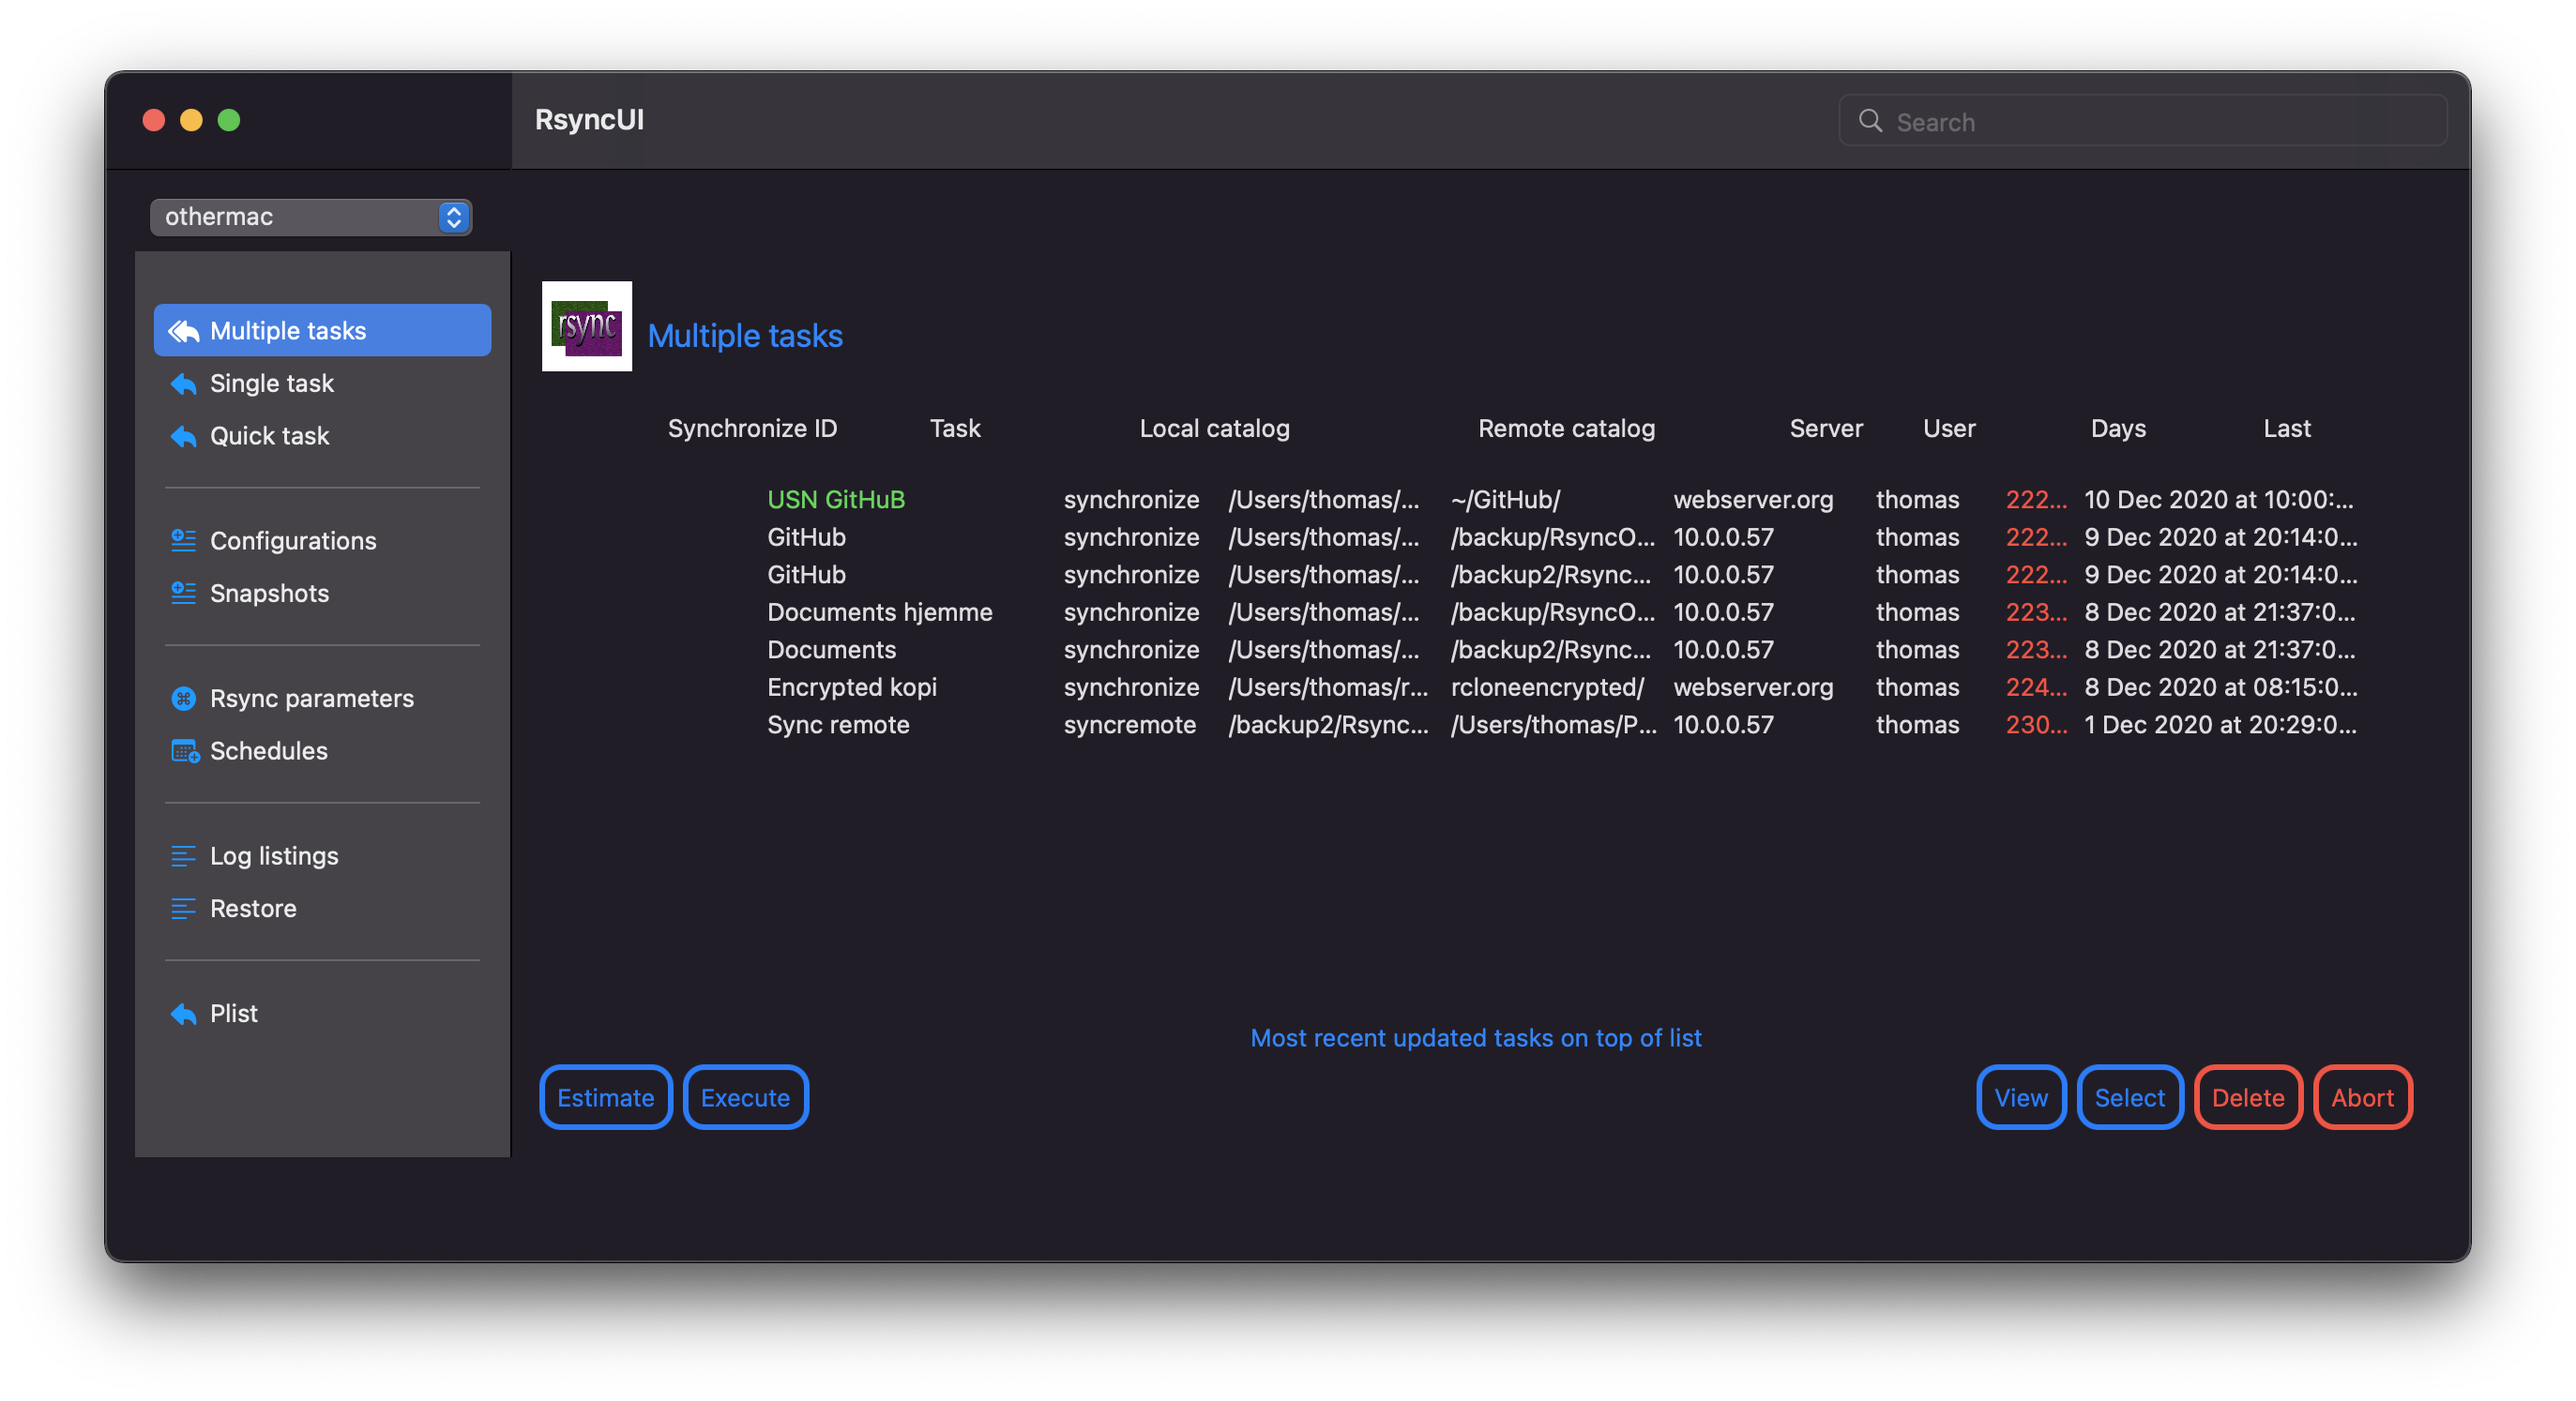
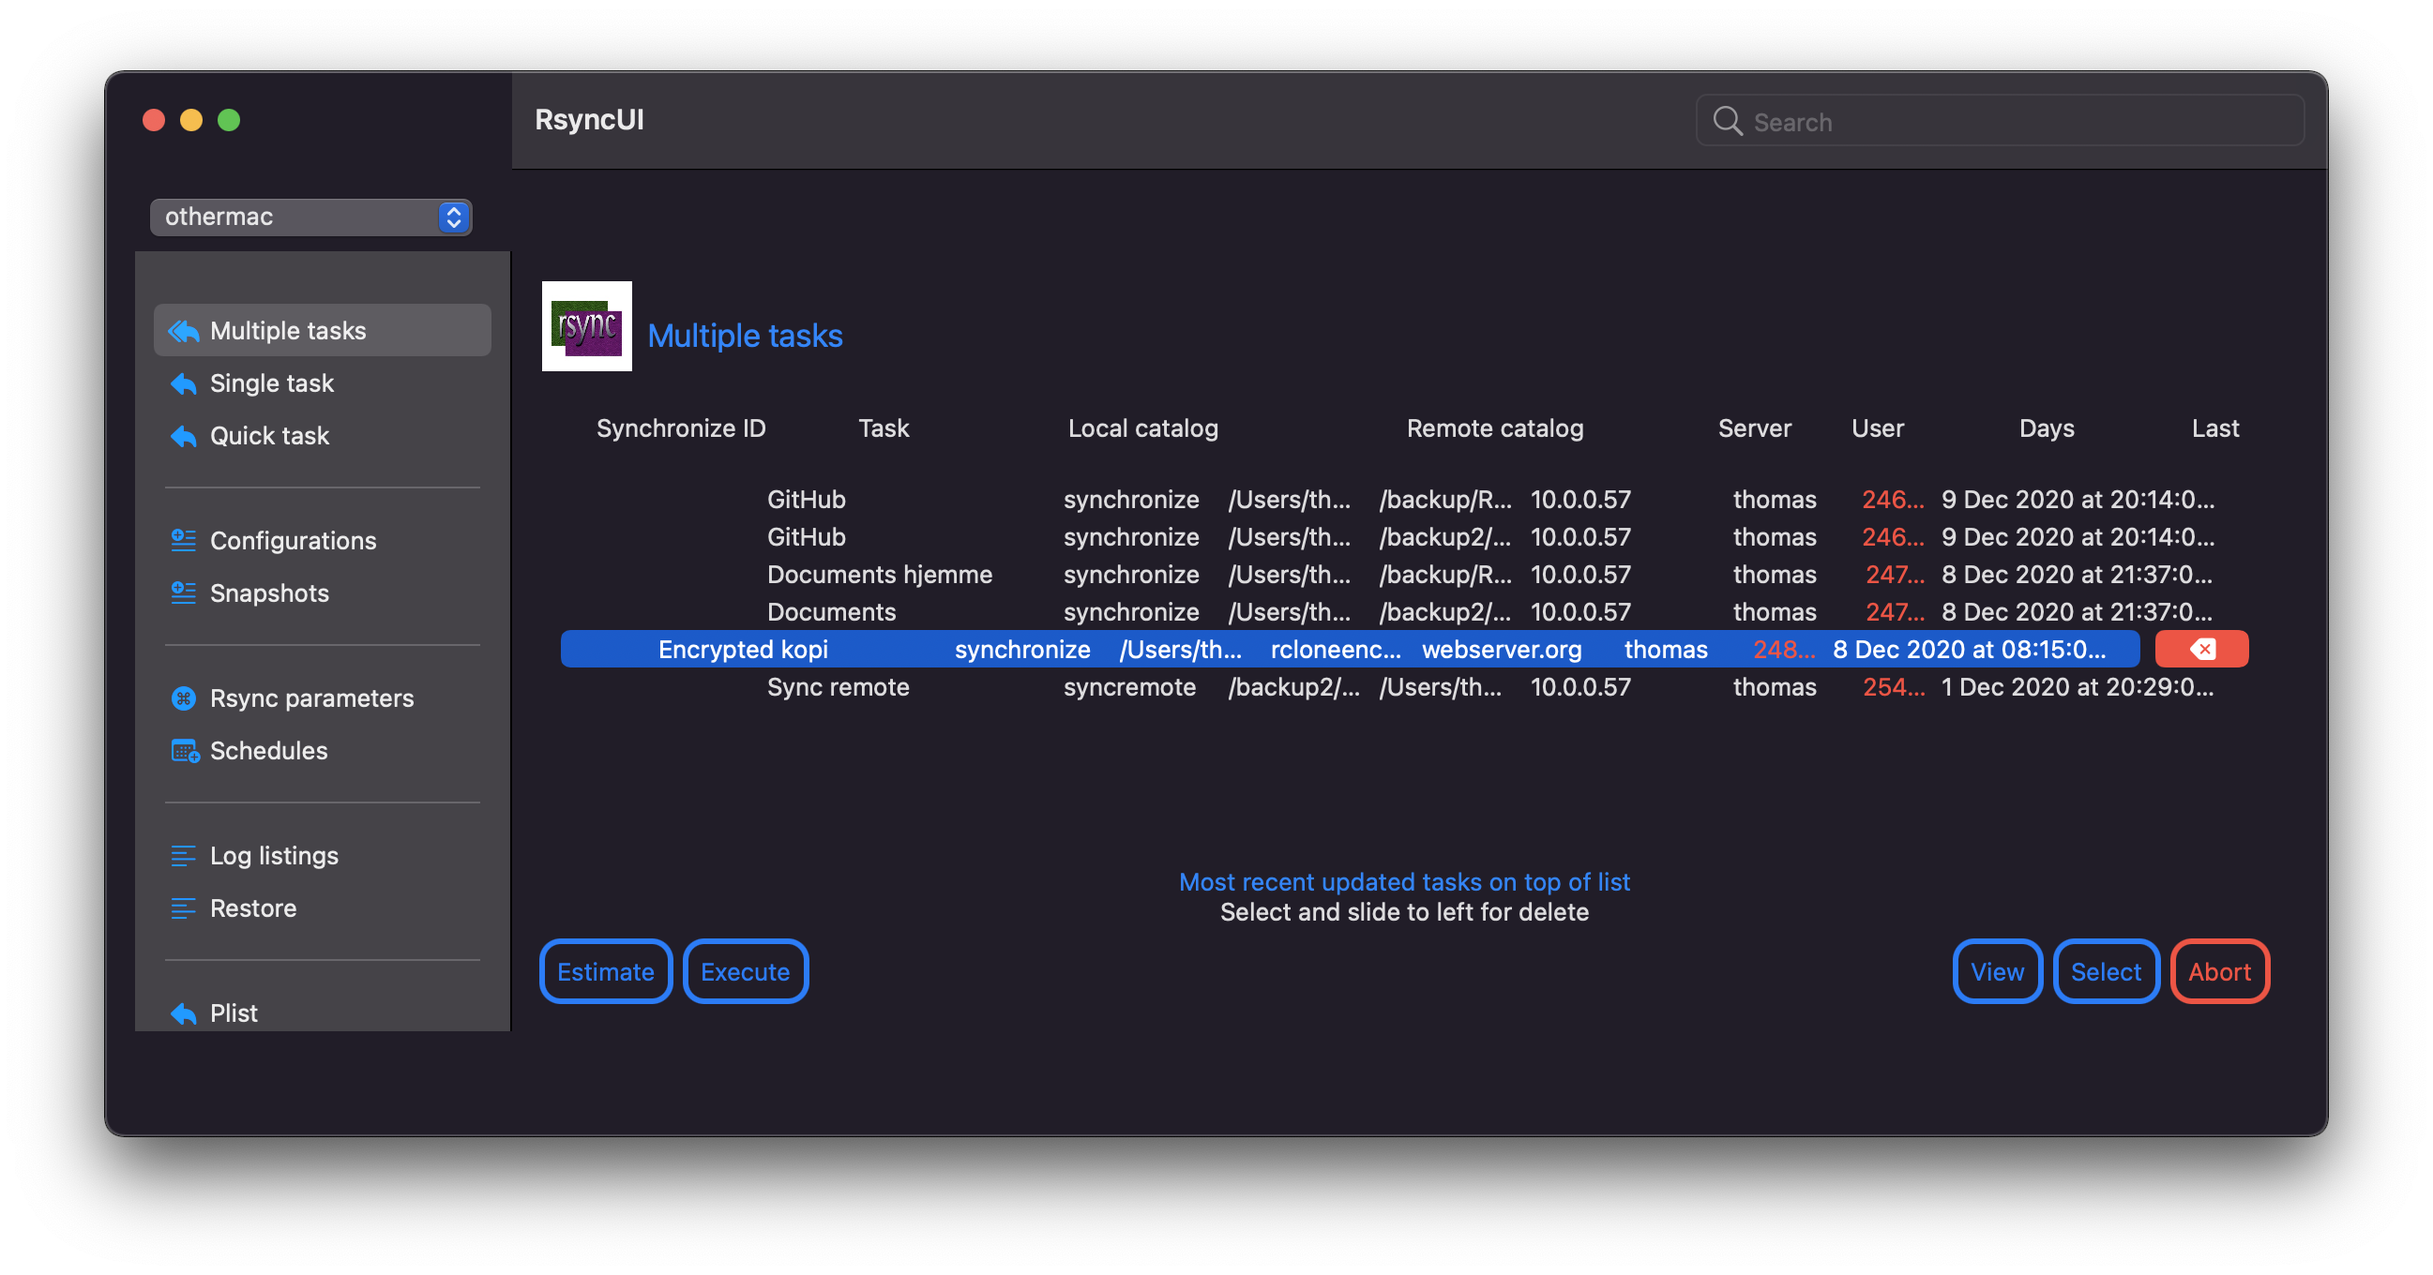
update

Changed region(s): [[0.0312, 0.0309, 0.968, 0.9265], [0.4684, 0.6794, 0.6557, 0.7721]]

diff --git a/content/post/MultipleTasks.md b/content/post/MultipleTasks.md
@@ -11,22 +11,25 @@ The multiple tasks view will probably be the most used view after adding the tas
 
 Estimate and execute might be triggered by shortcuts when view is opened:
 
-- `Estimate` - shortcut `⌘E`
-- `Execute` - shortcut `⌘R`
+- `Estimate` -
+- `Execute` -
 
 ![](/images/multipletasks/multipletasks.png)
 
 The following actions are possible within this view:
 
-- `Estimate` - only estimate all tasks, view result after estimate is completed
-- `Execute` - first it estimates all tasks and then automatically executes all tasks with data to synchronize
+- `Estimate` - shortcut `⌘E`, only **estimate** all tasks, view result after estimate is completed
+- `Execute` - shortcut `⌘R`, estimate and execute all tasks with data to synchronize
 
 The buttons to right:
 
 - `View` - after a estimate run, view result
 - `Select` - select tasks for either estimate and execute, or delete
-- `Delete` - select a task for delete
 - `Abort` - abort the ongoing task
+
+## Delete
+
+Select a configuration and slide left for delete.
 
 ## Logs
 
